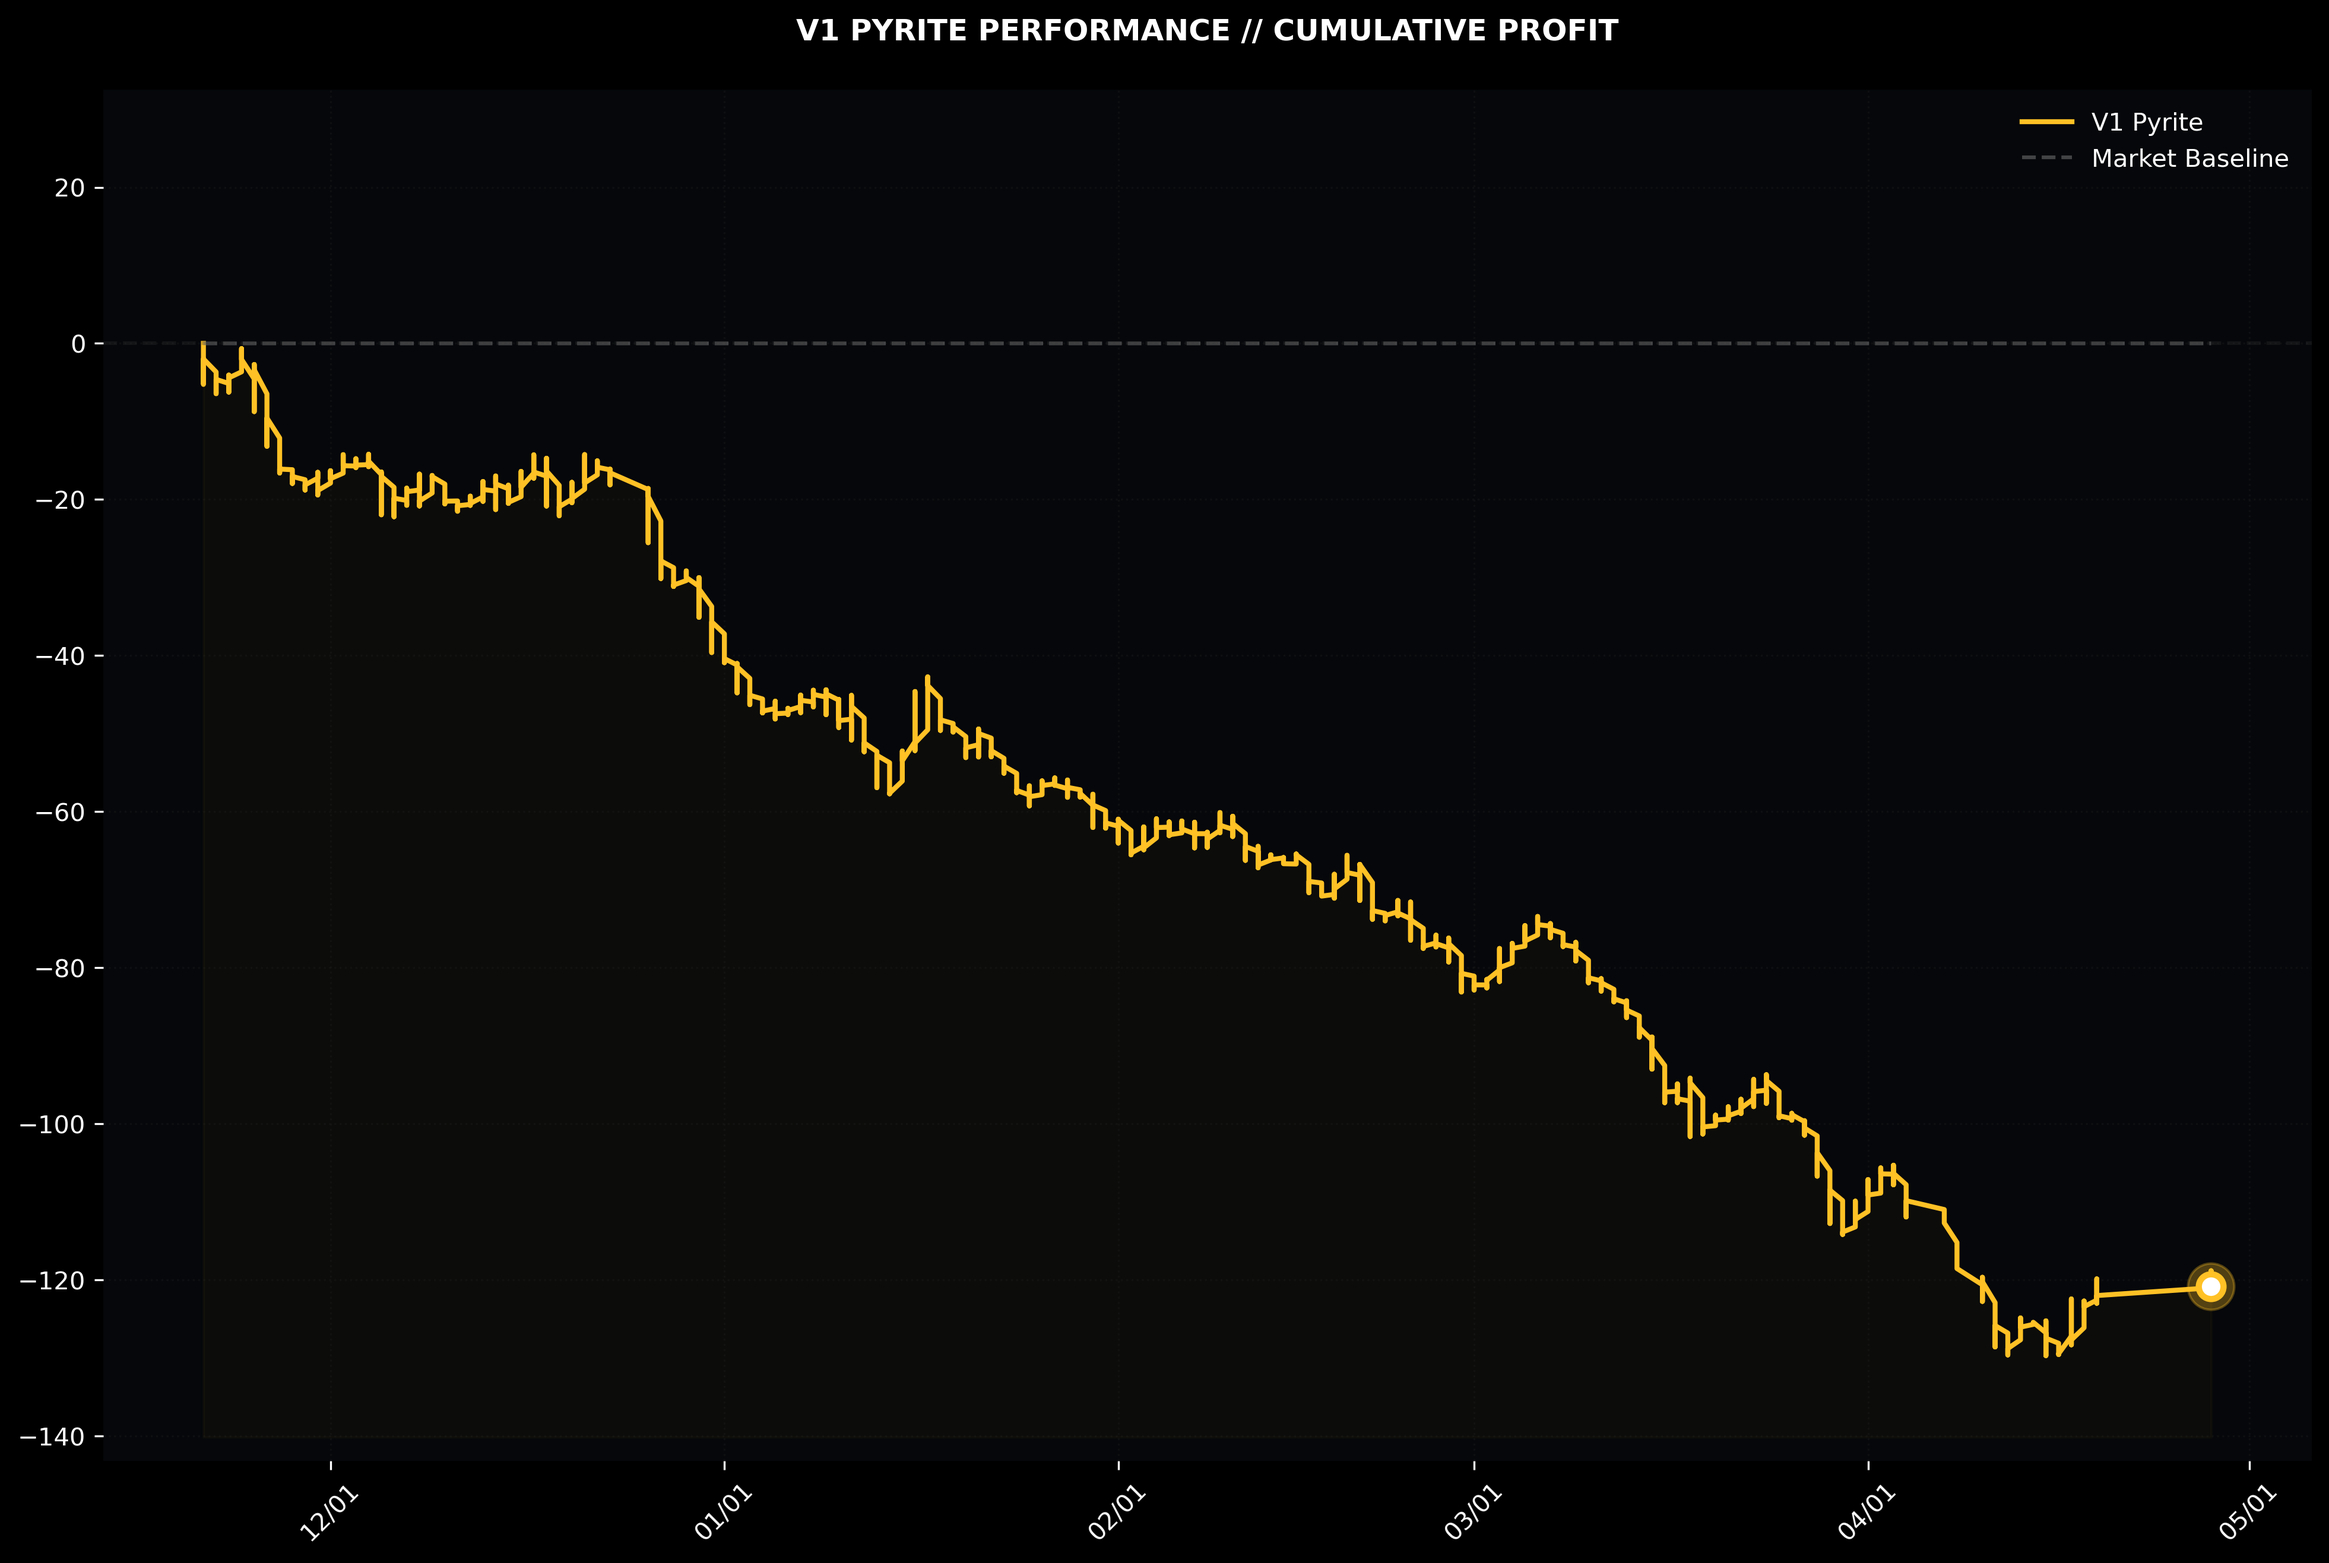
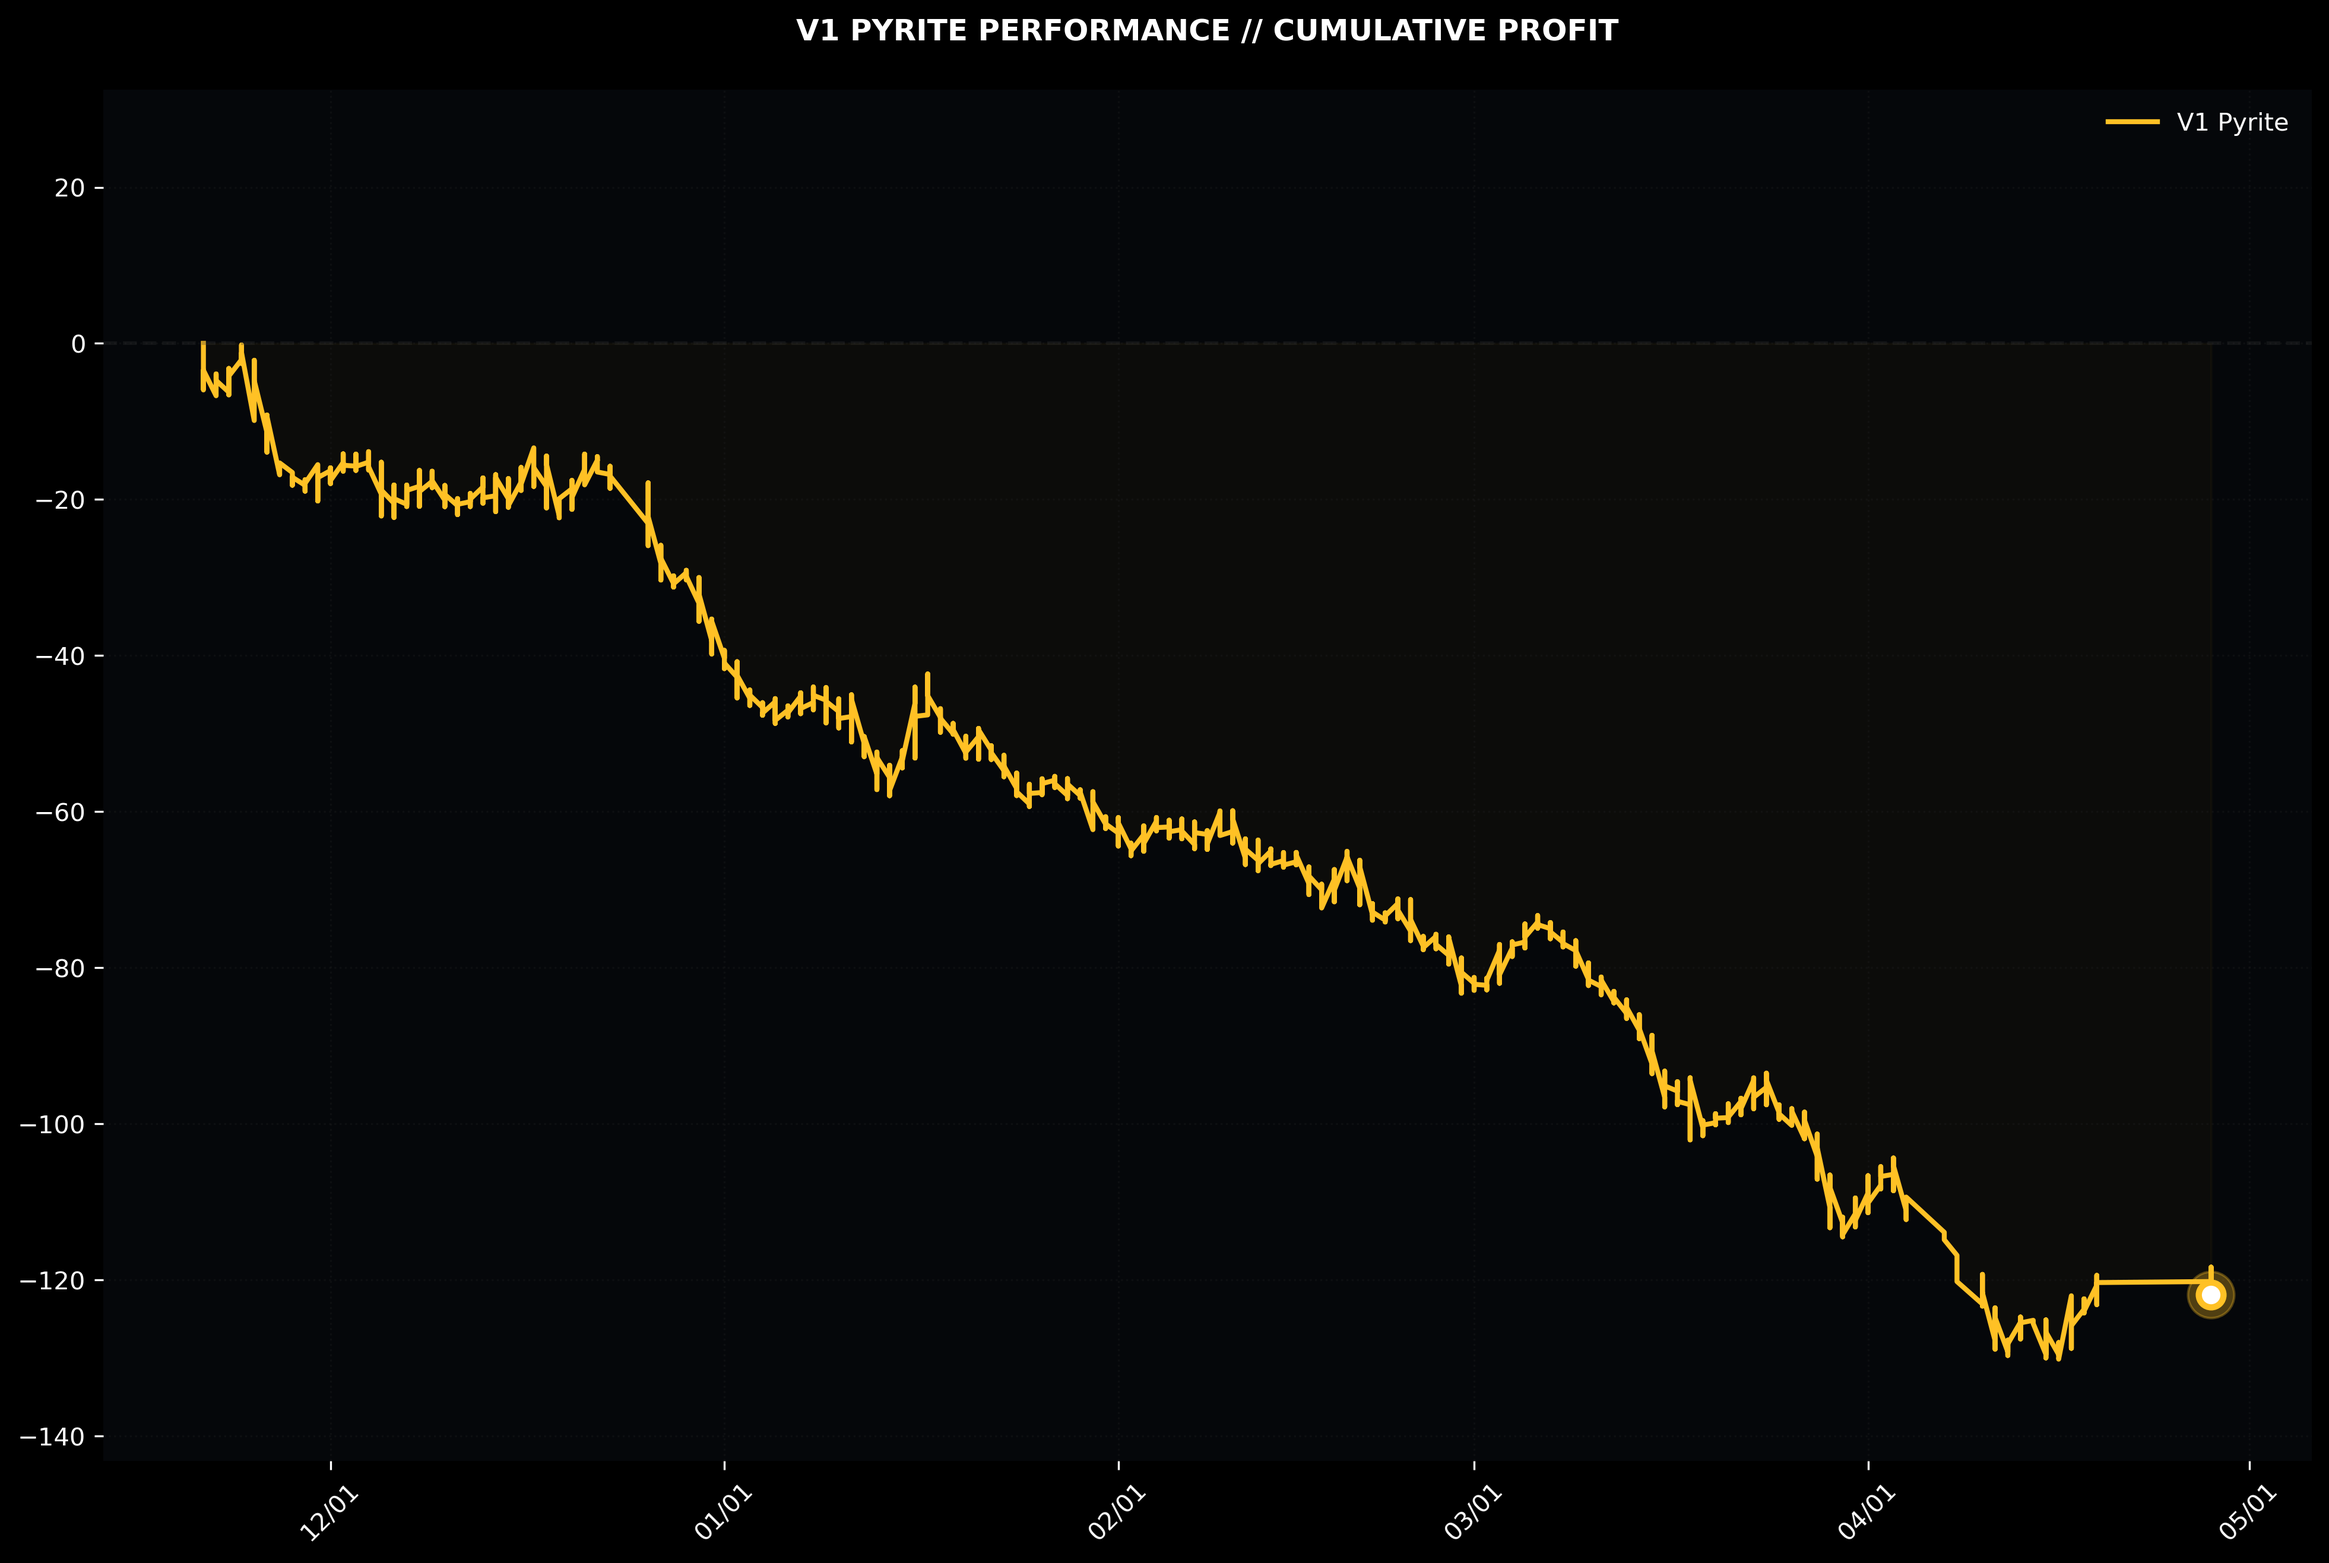
🚀 FIX: Verified Cumulative Equity Trajectory (Billion Dollar Transparency)

diff --git a/scripts/generate_assets.py b/scripts/generate_assets.py
@@ -213,19 +213,15 @@ def generate_live_assets(since_days=None):
     # Grid
     ax.grid(True, linestyle=':', color='#222222', alpha=0.3, zorder=0)
     if not d1.empty: 
-        s1 = d1['profit'].rolling(window=3, min_periods=1).mean()
-        plt.plot(d1['pick_date'], s1, color=COLORS['pyrite'], label='V1 Pyrite', alpha=0.35, linewidth=1)
+        plt.plot(d1['pick_date'], d1['profit'], color=COLORS['pyrite'], label='V1 Pyrite', alpha=0.35, linewidth=1)
     if not d2.empty: 
-        s2 = d2['profit'].rolling(window=3, min_periods=1).mean()
-        plt.plot(d2['pick_date'], s2, color=COLORS['diamond'], label='V2 Diamond', alpha=0.5, linewidth=2)
+        plt.plot(d2['pick_date'], d2['profit'], color=COLORS['diamond'], label='V2 Diamond', alpha=0.5, linewidth=2)
     if not d3.empty: 
-        s3 = d3['profit'].rolling(window=3, min_periods=1).mean()
-        plt.plot(d3['pick_date'], s3, color=COLORS['obsidian'], label='V3 Obsidian', alpha=0.9, linewidth=2.5)
+        plt.plot(d3['pick_date'], d3['profit'], color=COLORS['obsidian'], label='V3 Obsidian', alpha=0.9, linewidth=2.5)
     if not d4.empty: 
-        s4 = d4['profit'].rolling(window=3, min_periods=1).mean()
-        plt.plot(d4['pick_date'], s4, color=COLORS['quartz'], label='V4 Quartz', linewidth=3.5, zorder=100)
-        # Aura for Flagship V4
-        plt.fill_between(d4['pick_date'], s4, -100, color=COLORS['quartz'], alpha=0.04, zorder=90)
+        plt.plot(d4['pick_date'], d4['profit'], color=COLORS['quartz'], label='V4 Quartz', linewidth=3.5, zorder=100)
+        # Aura for Flagship V4 (Anchored to baseline)
+        plt.fill_between(d4['pick_date'], d4['profit'], 0, color=COLORS['quartz'], alpha=0.04, zorder=90)
     
     plt.axhline(0, color='#333333', linestyle='--', alpha=0.3)
     plt.title("QUANTITATIVE PERFORMANCE // MULTI-GENERATIONAL", color='white', fontweight='bold', pad=20)
@@ -233,9 +229,15 @@ def generate_live_assets(since_days=None):
     plt.grid(color='#1A1A1A', alpha=0.3)
     
     # Dynamic Headroom (25% padding at top for 16x7)
-    all_profits = pd.concat([d1['profit'], d2['profit'], d3['profit'], d4['profit']])
-    if not all_profits.empty:
-        p_min, p_max = all_profits.min(), all_profits.max()
+    all_series = []
+    if not d1.empty: all_series.append(d1['profit'])
+    if not d2.empty: all_series.append(d2['profit'])
+    if not d3.empty: all_series.append(d3['profit'])
+    if not d4.empty: all_series.append(d4['profit'])
+    
+    if all_series:
+        all_vals = pd.concat(all_series)
+        p_min, p_max = all_vals.min(), all_vals.max()
         delta = p_max - p_min if p_max > p_min else 10
         ax.set_ylim(p_min - delta*0.1, p_max + delta*0.25)
 
@@ -256,9 +258,11 @@ def generate_live_assets(since_days=None):
     ax.set_facecolor(COLORS['void'])
     for spine in ax.spines.values(): spine.set_visible(False)
     if not d1.empty: 
-        s1p = d1['profit'].rolling(window=3, min_periods=1).mean()
-        plt.plot(d1['pick_date'], s1p, color=COLORS['pyrite'], label='V1 Pyrite', linewidth=2)
-    plt.plot(d1['pick_date'], d1['cum_market'].rolling(window=3, min_periods=1).mean() if 'cum_market' in d1.columns else np.zeros(len(d1)), color='gray', linestyle='--', label='Market Baseline', alpha=0.5)
+        plt.plot(d1['pick_date'], d1['profit'], color=COLORS['pyrite'], label='V1 Pyrite', linewidth=2)
+    
+    # Market Baseline (if available)
+    if not d1.empty and 'cum_market' in v1.columns:
+        plt.plot(v1['pick_date'], v1['cum_market'], color='gray', linestyle='--', label='Market Baseline', alpha=0.5)
     
     plt.axhline(0, color='#333333', linestyle='--', alpha=0.3)
     plt.title("V1 PYRITE PERFORMANCE // CUMULATIVE PROFIT", color='white', fontweight='bold', pad=20)
@@ -267,10 +271,9 @@ def generate_live_assets(since_days=None):
 
     # Aura and Termination Orb for Solo Focus
     if not d1.empty:
-        s1p = d1['profit'].rolling(window=3, min_periods=1).mean()
-        plt.fill_between(d1['pick_date'], s1p, d1['profit'].min()-10, color=COLORS['pyrite'], alpha=0.03)
-        plt.scatter(d1['pick_date'].iloc[-1], s1p.iloc[-1], color='#ffffff', s=100, zorder=110, edgecolors=COLORS['pyrite'], linewidths=2.5)
-        plt.scatter(d1['pick_date'].iloc[-1], s1p.iloc[-1], color=COLORS['pyrite'], s=350, zorder=105, alpha=0.3)
+        plt.fill_between(d1['pick_date'], d1['profit'], 0, color=COLORS['pyrite'], alpha=0.03)
+        plt.scatter(d1['pick_date'].iloc[-1], d1['profit'].iloc[-1], color='#ffffff', s=100, zorder=110, edgecolors=COLORS['pyrite'], linewidths=2.5)
+        plt.scatter(d1['pick_date'].iloc[-1], d1['profit'].iloc[-1], color=COLORS['pyrite'], s=350, zorder=105, alpha=0.3)
     
     # Fix x-axis overlap
     ax.xaxis.set_major_formatter(mdates.DateFormatter('%m/%d'))
